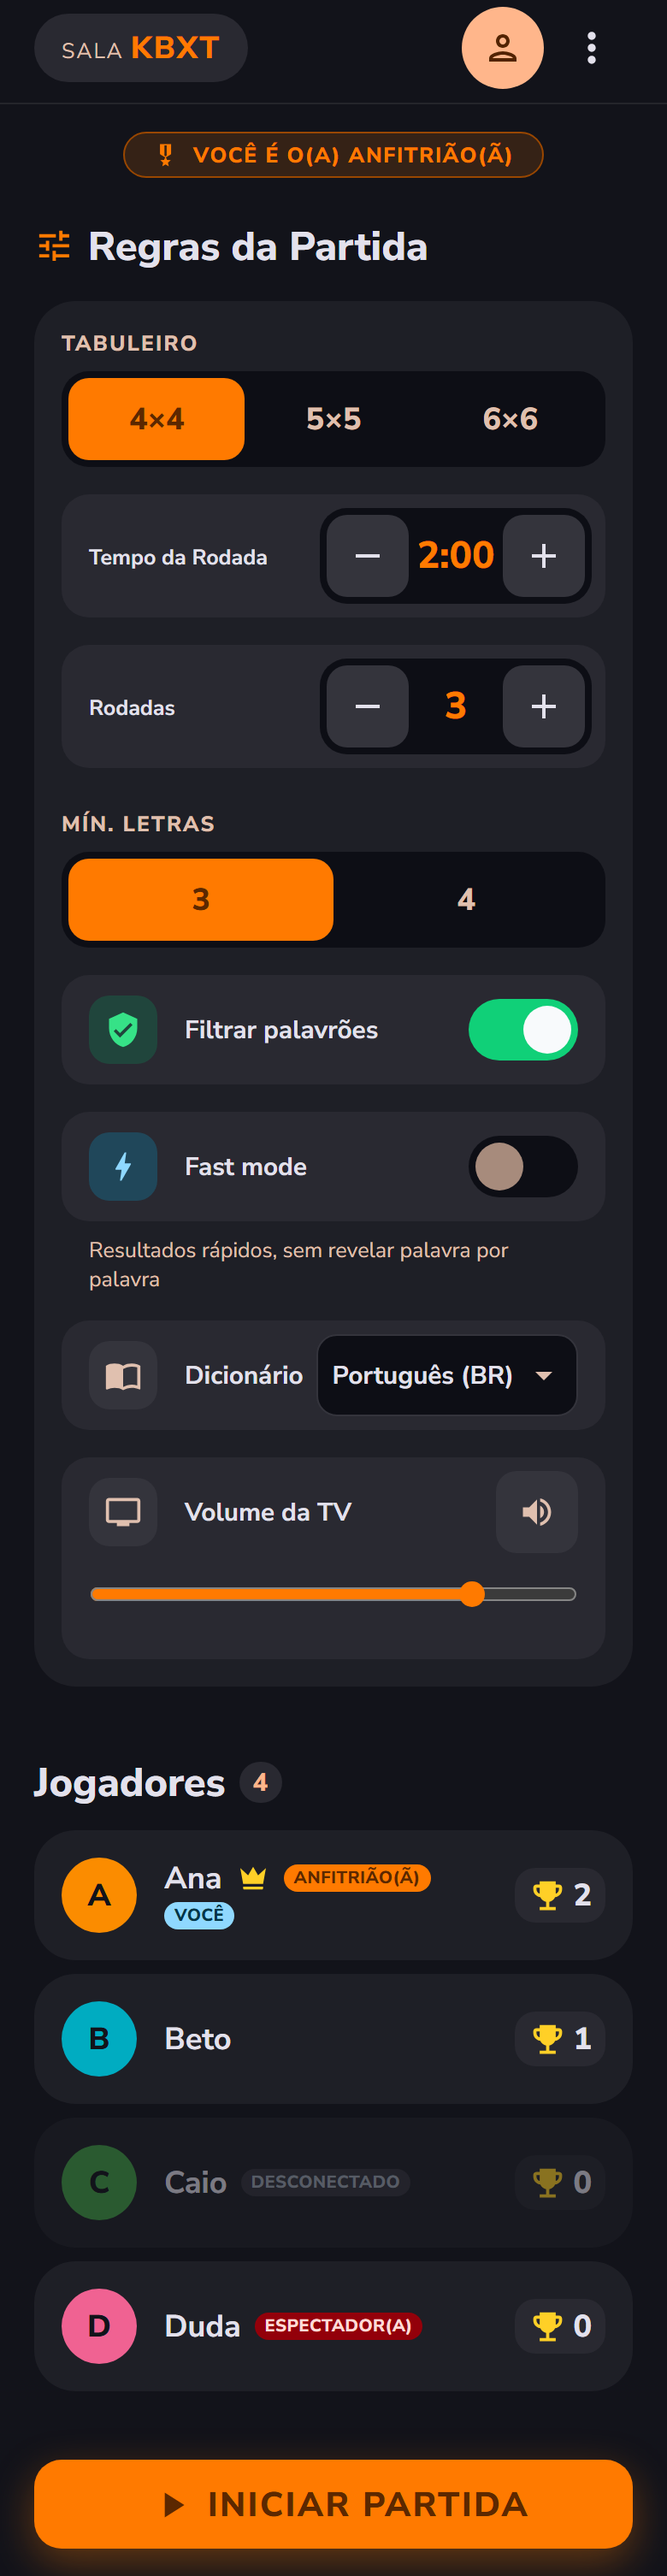
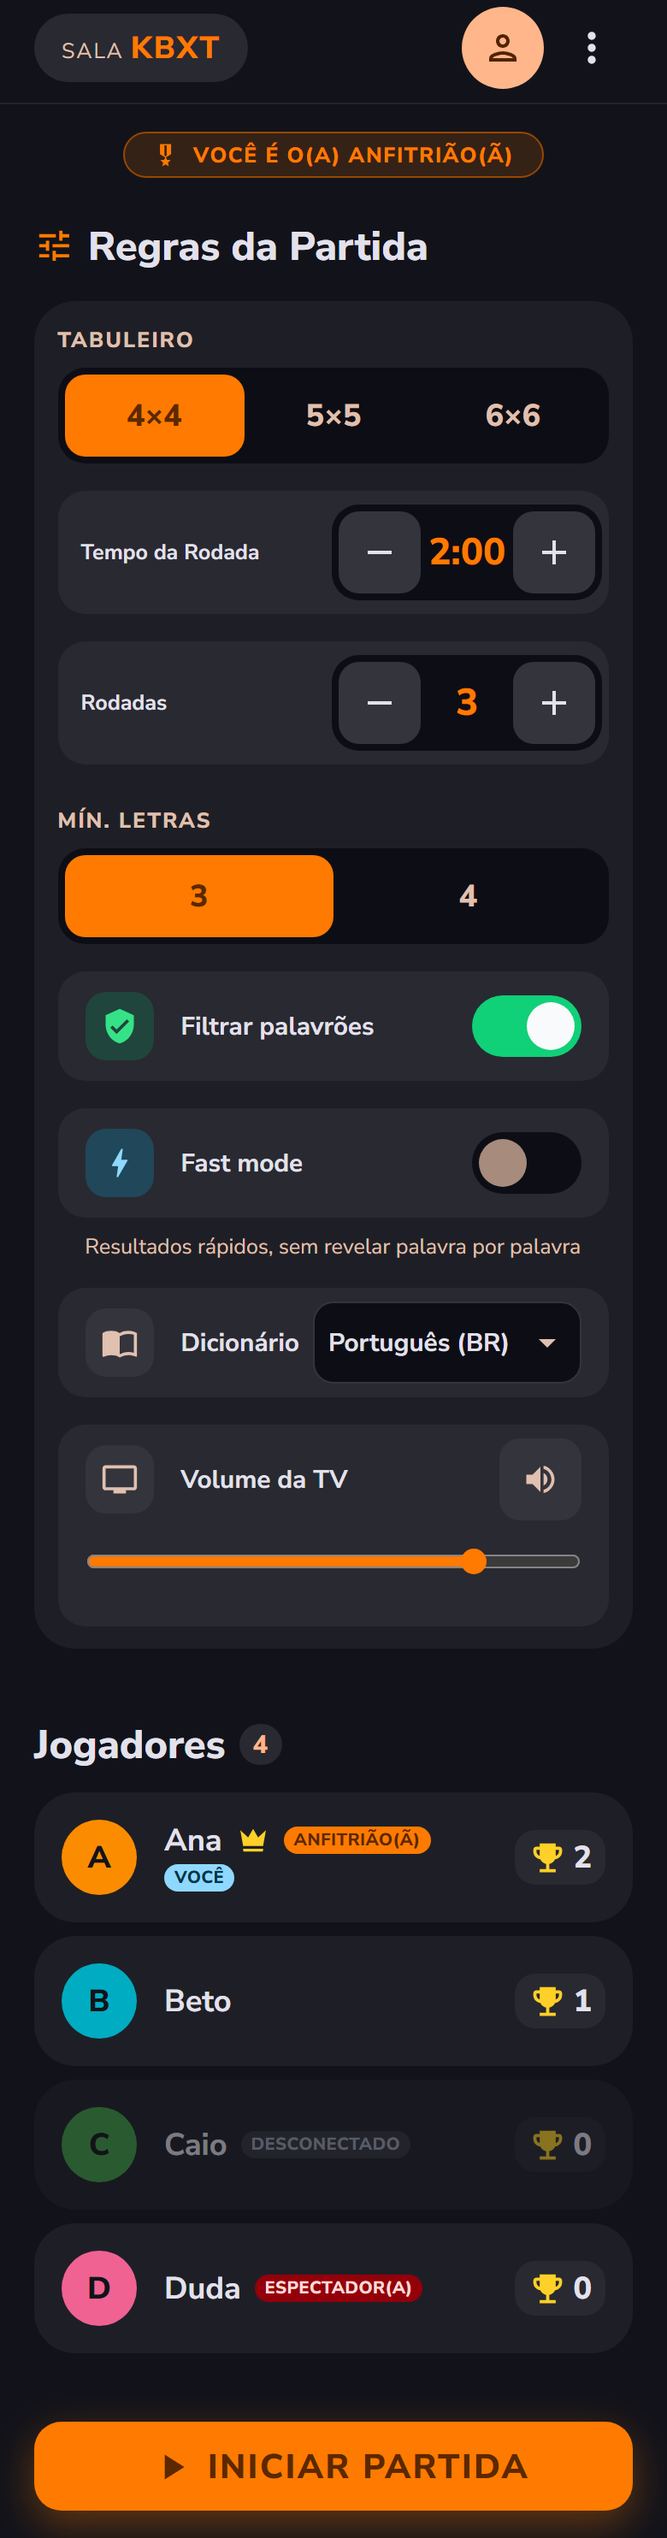
fix(phone): keep Tempo da Rodada on one line from 360 px
The settings panel and the stepper narrow their padding and the value
font on small screens; at 320 px the 48 px buttons leave no room and the
label wraps (C26, AD-016).

diff --git a/packages/phone/src/styles/stepper.css b/packages/phone/src/styles/stepper.css
@@ -4,7 +4,7 @@
   align-items: center;
   justify-content: space-between;
   margin-top: var(--space-md);
-  padding: var(--space-sm) var(--space-sm) var(--space-sm) var(--space-md);
+  padding: var(--space-sm) var(--space-xs) var(--space-sm) clamp(var(--space-sm), 3.5vw, var(--space-md));
   border-radius: var(--radius-lg);
   background: var(--color-surface-container-high);
 }
@@ -12,7 +12,7 @@
 .stepper__label {
   flex: 1;
   min-width: 0;
-  margin-right: var(--space-sm);
+  margin-right: var(--space-xs);
   color: var(--color-on-surface);
   font-size: var(--font-size-small);
   font-weight: var(--font-weight-semibold);
@@ -49,7 +49,7 @@
   min-width: 2.5em;
   padding: 0 var(--space-xs);
   color: var(--color-action);
-  font-size: var(--font-size-title-md);
+  font-size: clamp(var(--font-size-body-md), 5.6vw, var(--font-size-title-md));
   font-weight: var(--font-weight-black);
   text-align: center;
 }

diff --git a/packages/phone/src/styles/settings-panel.css b/packages/phone/src/styles/settings-panel.css
@@ -1,7 +1,8 @@
 /* The host's match settings (HOST-01 AC 2-9, phone-host-lobby.png). */
 .settings-panel {
   margin-top: var(--space-md);
-  padding: var(--space-md);
+  /* Narrower on small screens, so "Tempo da Rodada" keeps one line beside its stepper. */
+  padding: clamp(var(--space-sm), 3.5vw, var(--space-md));
   border-radius: var(--radius-xl);
   background: var(--color-surface-container);
 }
